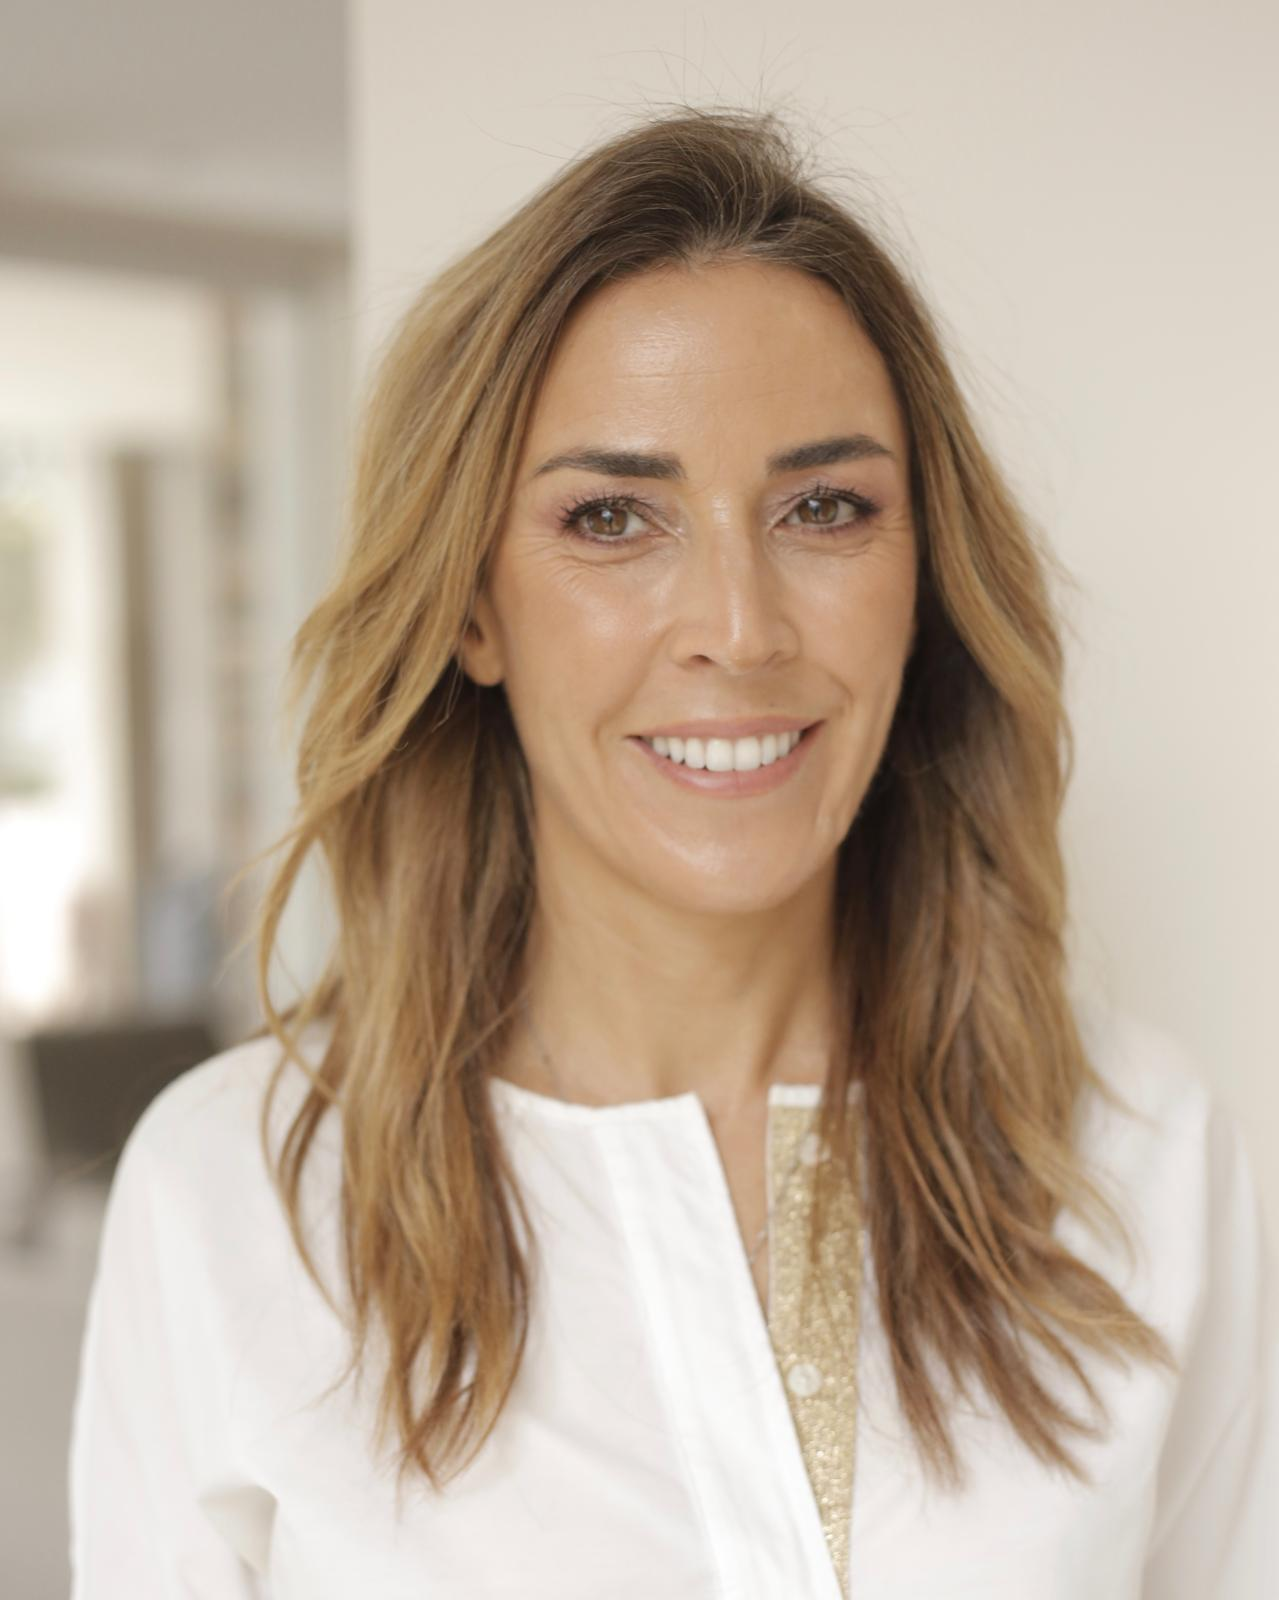
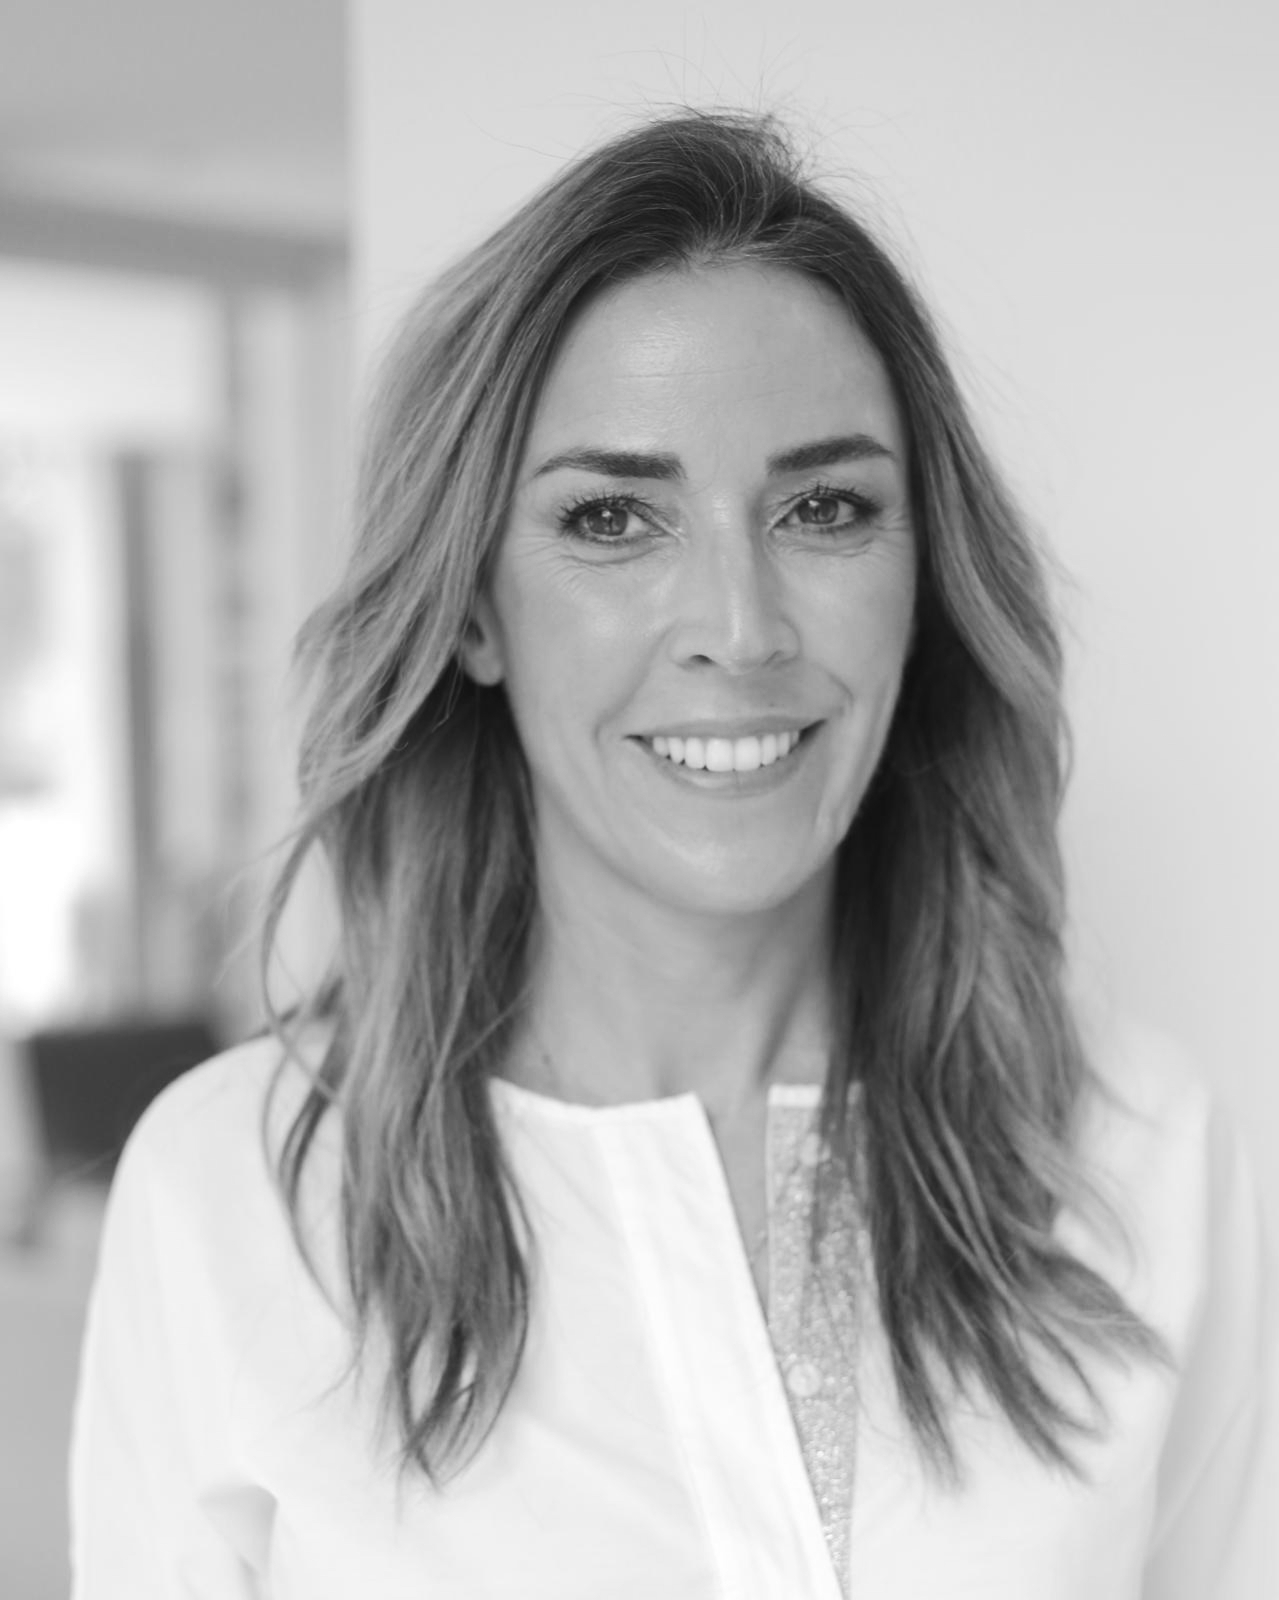
Update copy: investment page, footer, services and why sacramentum sections

diff --git a/app/invest/InvestPageClient.tsx b/app/invest/InvestPageClient.tsx
@@ -32,7 +32,7 @@ const CHAPTERS = [
     en: {
       eyebrow:   "01 · Real Estate",
       headline:  "Invest where you can live: The Lifestyle Assets Concept",
-      body:      "An asset shouldn't just be a number in a bank account. We identify properties that serve a dual purpose: capital preservation (productive farmland, estancias, premium real estate) and immediate quality of life.\n\nWe believe the most resilient portfolio is one you can experience. These are assets that preserve and grow your capital while remaining livable, enjoyable and productive. Uruguay's real estate market offers legal certainty, dollar-denominated transactions and unrestricted foreign ownership.",
+      body:      "We believe the most resilient portfolio is one you can experience. Assets that preserve and grow your capital while remaining livable, enjoyable and productive.\n\nWe will help you find properties that serve a dual purpose: capital preservation (productive farmland, estancias, premium real estate) and immediate quality of life.\n\nUruguay's real estate market offers legal certainty, dollar-denominated transactions and unrestricted foreign ownership.",
       stat:      { value: "0%", label: "Restrictions on foreign ownership" },
       secondary: "Residential · Commercial · Coastal · Heritage",
       cta:       "Ask about our farmland, agricultural and coastal property listings",
@@ -40,7 +40,7 @@ const CHAPTERS = [
     es: {
       eyebrow:   "01 · Bienes Raíces",
       headline:  "Invierta donde pueda vivir: El concepto de Lifestyle Assets",
-      body:      "Un activo no debería ser solo un número en una cuenta bancaria. Seleccionamos propiedades que cumplen una doble función: preservación de capital (campos productivos, estancias, real estate premium) y calidad de vida inmediata.\n\nActivos que al mismo tiempo que preservan su capital y aumentan de valor, son vivibles, disfrutables y productivos. El mercado inmobiliario de Uruguay ofrece certeza jurídica, transacciones en dólares y propiedad extranjera sin restricciones.",
+      body:      "Creemos que la cartera más sólida es aquella que también puede disfrutarse en la vida real. Activos que preservan y hacen crecer su capital, al tiempo que resultan habitables, disfrutables y productivos.\n\nLe ayudamos a identificar propiedades con un doble propósito: preservación de capital (campos productivos, estancias y bienes raíces premium) y calidad de vida inmediata.\n\nEl mercado inmobiliario de Uruguay ofrece seguridad jurídica, transacciones denominadas en dólares y propiedad sin restricciones para inversores extranjeros.",
       stat:      { value: "0%", label: "Restricciones a propietarios extranjeros" },
       secondary: "Residencial · Comercial · Costero · Patrimonial",
       cta:       "Consúltenos para conocer nuestros listings de campos agrícolas, ganaderos y forestales, chacras serranas o propiedades costeras",
@@ -337,12 +337,12 @@ export default function InvestPageClient() {
                 {locale === "en" ? (
                   <>
                     <p>Discover investment opportunities in one of the most stable and attractive countries in Latin America.</p>
-                    <p>In recent years, Uruguay has experienced significant progress in the development of its road, rail, and energy infrastructure. These advancements have created tangible opportunities for strategic players across key sectors such as real estate, infrastructure, and logistics.</p>
+                    <p>In recent years, Uruguay has experienced significant progress in the development of its road, rail, and energy infrastructure. These advancements have created tangible opportunities for strategic players across key sectors such as real estate, infrastructure, logistics, agriculture, forestry, and renewables.</p>
                   </>
                 ) : (
                   <>
-                    <p>Descubre las oportunidades de inversión en uno de los países más estables y atractivos de América Latina.</p>
-                    <p>En los últimos años, Uruguay ha experimentado un avance significativo en el desarrollo de su infraestructura vial, ferroviaria y energética. Estos avances han generado oportunidades concretas para la participación de players estratégicos en sectores clave como el sector agro-forestal, infraestructura y logística.</p>
+                    <p>Descubra las oportunidades de inversión en Uruguay, uno de los países más estables y atractivos de América Latina.</p>
+                    <p>En los últimos años, Uruguay ha experimentado un avance significativo en el desarrollo de su infraestructura vial, ferroviaria y energética. Estos avances han generado oportunidades concretas para la participación de players estratégicos en sectores clave como el agro-forestal, agroindustrial, infraestructura y logística, así como en energías renovables.</p>
                   </>
                 )}
               </motion.div>
@@ -414,14 +414,14 @@ export default function InvestPageClient() {
                   {"pillars" in copy ? (
                     /* ── Technology: intro + three pillars ── */
                     <>
-                      <p style={{ color: "rgba(255,255,255,0.68)", fontSize: "0.95rem", lineHeight: 1.65, maxWidth: "52ch", marginBottom: "1.25rem" }}>
+                      <p style={{ color: "rgba(255,255,255,0.9)", fontSize: "0.95rem", lineHeight: 1.65, maxWidth: "52ch", marginBottom: "1.25rem" }}>
                         {copy.intro}
                       </p>
                       <div style={{ display: "flex", flexDirection: "column", gap: "0.9rem", marginBottom: "1.25rem" }}>
                         {copy.pillars.map((p: { heading: string; body: string }) => (
                           <div key={p.heading}>
-                            <p style={{ color: "rgba(255,255,255,0.4)", fontSize: "0.65rem", letterSpacing: "0.12em", textTransform: "uppercase", marginBottom: "0.35rem" }}>{p.heading}</p>
-                            <p style={{ color: "rgba(255,255,255,0.62)", fontSize: "0.9rem", lineHeight: 1.65 }}>{p.body}</p>
+                            <p style={{ color: "rgba(255,255,255,0.6)", fontSize: "0.65rem", letterSpacing: "0.12em", textTransform: "uppercase", marginBottom: "0.35rem" }}>{p.heading}</p>
+                            <p style={{ color: "rgba(255,255,255,0.9)", fontSize: "0.95rem", lineHeight: 1.65 }}>{p.body}</p>
                           </div>
                         ))}
                       </div>
@@ -435,17 +435,17 @@ export default function InvestPageClient() {
                   ) : "keyDrivers" in copy ? (
                     /* ── Agriculture: key drivers + downloads ── */
                     <>
-                      <p style={{ color: "rgba(255,255,255,0.68)", fontSize: "0.95rem", lineHeight: 1.65, maxWidth: "52ch", marginBottom: "1.25rem" }}>{copy.body}</p>
+                      <p style={{ color: "rgba(255,255,255,0.9)", fontSize: "0.95rem", lineHeight: 1.65, maxWidth: "52ch", marginBottom: "1.25rem" }}>{copy.body}</p>
                       <div style={{ display: "flex", flexDirection: "column", gap: "1rem", marginBottom: "1.25rem" }}>
                         {[
                           { heading: locale === "en" ? "Key Factors" : "Factores Clave", items: copy.keyDrivers },
                           { heading: locale === "en" ? "Highlights" : "Aspectos del Mercado", items: copy.marketHighlights },
                         ].map(({ heading, items }) => (
                           <div key={heading}>
-                            <p style={{ color: "rgba(255,255,255,0.4)", fontSize: "0.65rem", letterSpacing: "0.12em", textTransform: "uppercase", marginBottom: "0.75rem" }}>{heading}</p>
+                            <p style={{ color: "rgba(255,255,255,0.6)", fontSize: "0.65rem", letterSpacing: "0.12em", textTransform: "uppercase", marginBottom: "0.75rem" }}>{heading}</p>
                             <ul style={{ listStyle: "none", padding: 0, margin: 0, display: "flex", flexDirection: "column", gap: "0.5rem" }}>
                               {items.map((item: string) => (
-                                <li key={item} style={{ display: "flex", gap: "0.5rem", alignItems: "flex-start", color: "rgba(255,255,255,0.62)", fontSize: "0.82rem", lineHeight: 1.5 }}>
+                                <li key={item} style={{ display: "flex", gap: "0.5rem", alignItems: "flex-start", color: "rgba(255,255,255,0.9)", fontSize: "0.95rem", lineHeight: 1.5 }}>
                                   <span style={{ color: "rgba(204,168,124,0.7)", flexShrink: 0, marginTop: "0.25rem" }}>—</span>{item}
                                 </li>
                               ))}
@@ -453,7 +453,7 @@ export default function InvestPageClient() {
                           </div>
                         ))}
                       </div>
-                      <p style={{ color: "rgba(255,255,255,0.35)", fontSize: "0.72rem", lineHeight: 1.5, fontStyle: "italic", borderLeft: "2px solid rgba(204,168,124,0.3)", paddingLeft: "0.875rem", marginBottom: "1.25rem", maxWidth: "52ch" }}>{copy.legalNote}</p>
+                      <p style={{ color: "rgba(255,255,255,0.65)", fontSize: "0.82rem", lineHeight: 1.5, fontStyle: "italic", borderLeft: "2px solid rgba(204,168,124,0.3)", paddingLeft: "0.875rem", marginBottom: "1.25rem", maxWidth: "52ch" }}>{copy.legalNote}</p>
                       <div style={{ display: "flex", flexWrap: "wrap", gap: "0.6rem", marginBottom: "1.5rem" }}>
                         {copy.downloads.map((dl: { label: string; href: string }) => (
                           <a key={dl.label} href={dl.href} target="_blank" rel="noopener noreferrer" style={{ display: "inline-flex", alignItems: "center", gap: "0.4rem", color: "rgba(255,255,255,0.75)", fontSize: "0.68rem", letterSpacing: "0.08em", textTransform: "uppercase", fontWeight: 500, border: "1px solid rgba(255,255,255,0.18)", borderRadius: "50px", padding: "0.45rem 1rem", transition: "all 0.25s ease" }}
@@ -474,7 +474,7 @@ export default function InvestPageClient() {
                   ) : (
                     /* ── Default: body + stat + cta ── */
                     <>
-                      <div style={{ color: "rgba(255,255,255,0.68)", fontSize: "1rem", lineHeight: 1.75, maxWidth: "52ch", marginBottom: "2.25rem" }}>
+                      <div style={{ color: "rgba(255,255,255,0.9)", fontSize: "0.95rem", lineHeight: 1.75, maxWidth: "52ch", marginBottom: "2.25rem" }}>
                         {copy.body.split("\n\n").map((para: string, pi: number, arr: string[]) => (
                           <p key={pi} style={{ marginBottom: pi < arr.length - 1 ? "1rem" : 0 }}>{para}</p>
                         ))}
@@ -555,9 +555,9 @@ export default function InvestPageClient() {
                   {copy.headline}
                 </h2>
                 {"intro" in copy
-                  ? <p style={{ color: "rgba(255,255,255,0.65)", fontSize: "0.95rem", lineHeight: 1.75, marginBottom: "1.5rem" }}>{copy.intro}</p>
+                  ? <p style={{ color: "rgba(255,255,255,0.9)", fontSize: "0.95rem", lineHeight: 1.75, marginBottom: "1.5rem" }}>{copy.intro}</p>
                   : "body" in copy
-                    ? <p style={{ color: "rgba(255,255,255,0.65)", fontSize: "0.95rem", lineHeight: 1.75, marginBottom: "1.5rem" }}>{copy.body}</p>
+                    ? <p style={{ color: "rgba(255,255,255,0.9)", fontSize: "0.95rem", lineHeight: 1.75, marginBottom: "1.5rem" }}>{copy.body}</p>
                     : null
                 }
                 {"keyDrivers" in copy ? (
@@ -567,17 +567,17 @@ export default function InvestPageClient() {
                       { heading: locale === "en" ? "Highlights" : "Aspectos del Mercado", items: copy.marketHighlights },
                     ].map(({ heading, items }) => (
                       <div key={heading} style={{ marginBottom: "1.25rem" }}>
-                        <p style={{ color: "rgba(255,255,255,0.4)", fontSize: "0.65rem", letterSpacing: "0.12em", textTransform: "uppercase", marginBottom: "0.5rem" }}>{heading}</p>
+                        <p style={{ color: "rgba(255,255,255,0.6)", fontSize: "0.65rem", letterSpacing: "0.12em", textTransform: "uppercase", marginBottom: "0.5rem" }}>{heading}</p>
                         <ul style={{ listStyle: "none", padding: 0, margin: 0, display: "flex", flexDirection: "column", gap: "0.4rem" }}>
                           {items.map((item: string) => (
-                            <li key={item} style={{ display: "flex", gap: "0.5rem", color: "rgba(255,255,255,0.6)", fontSize: "0.82rem", lineHeight: 1.5 }}>
+                            <li key={item} style={{ display: "flex", gap: "0.5rem", color: "rgba(255,255,255,0.9)", fontSize: "0.95rem", lineHeight: 1.5 }}>
                               <span style={{ color: "rgba(204,168,124,0.7)", flexShrink: 0 }}>—</span>{item}
                             </li>
                           ))}
                         </ul>
                       </div>
                     ))}
-                    <p style={{ color: "rgba(255,255,255,0.3)", fontSize: "0.72rem", lineHeight: 1.6, fontStyle: "italic", borderLeft: "2px solid rgba(204,168,124,0.3)", paddingLeft: "0.75rem", marginBottom: "1.25rem" }}>
+                    <p style={{ color: "rgba(255,255,255,0.65)", fontSize: "0.82rem", lineHeight: 1.6, fontStyle: "italic", borderLeft: "2px solid rgba(204,168,124,0.3)", paddingLeft: "0.75rem", marginBottom: "1.25rem" }}>
                       {copy.legalNote}
                     </p>
                     <div style={{ display: "flex", flexWrap: "wrap", gap: "0.5rem" }}>

diff --git a/components/layout/Footer.tsx b/components/layout/Footer.tsx
@@ -222,37 +222,6 @@ export default function Footer() {
               {copy.brand.tagline}
             </p>
 
-            {/* Location + email chips */}
-            <div className="flex flex-col gap-3 mt-7">
-              <div
-                className="flex items-center gap-2.5"
-                style={{ color: "rgba(250,250,248,0.38)", fontSize: "0.78rem" }}
-              >
-                <IconLocation />
-                <span>{copy.contact.location}</span>
-              </div>
-              <div className="flex items-center gap-2.5">
-                <span style={{ color: "rgba(250,250,248,0.38)" }}>
-                  <IconMail />
-                </span>
-                <a
-                  href={`mailto:${copy.contact.email}`}
-                  style={{
-                    color:      "rgba(250,250,248,0.38)",
-                    fontSize:   "0.78rem",
-                    transition: "color 0.2s ease",
-                  }}
-                  onMouseEnter={e =>
-                    ((e.currentTarget as HTMLElement).style.color = "var(--color-warm)")
-                  }
-                  onMouseLeave={e =>
-                    ((e.currentTarget as HTMLElement).style.color = "rgba(250,250,248,0.38)")
-                  }
-                >
-                  {copy.contact.email}
-                </a>
-              </div>
-            </div>
           </motion.div>
 
           {/* ── Col 2: Navigation ─────────────────────────── */}

diff --git a/data/translations.ts b/data/translations.ts
@@ -730,7 +730,7 @@ const es: SiteTranslations = {
 
   howWeSupport: {
     eyebrow:     "Nuestro Asesoramiento",
-    headline:    "Cómo te acompañamos",
+    headline:    "Cómo le acompañamos",
     subheadline: "Desde inteligencia de mercado y estructuración de transacciones hasta residencia, establecimiento local y posicionamiento de capital a largo plazo, nuestro equipo lo acompaña en cada etapa de su proceso.",
     cta:         "Agendar una llamada de asesoría privada",
     cards: [

diff --git a/components/sections/WhySacramentum.tsx b/components/sections/WhySacramentum.tsx
@@ -218,7 +218,7 @@ export default function WhySacramentum() {
                 lineHeight:    1.08,
               }}
             >
-              {locale === "en" ? <>Why<br />Sacramentum?</> : <>¿Por qué<br />Sacramentum?</>}
+              {locale === "en" ? <>Why<br />Sacramentum?</> : <>¿Por qué Sacramentum?</>}
             </h1>
           </div>
           <p className="text-body text-ink-muted leading-relaxed lg:pb-2">
